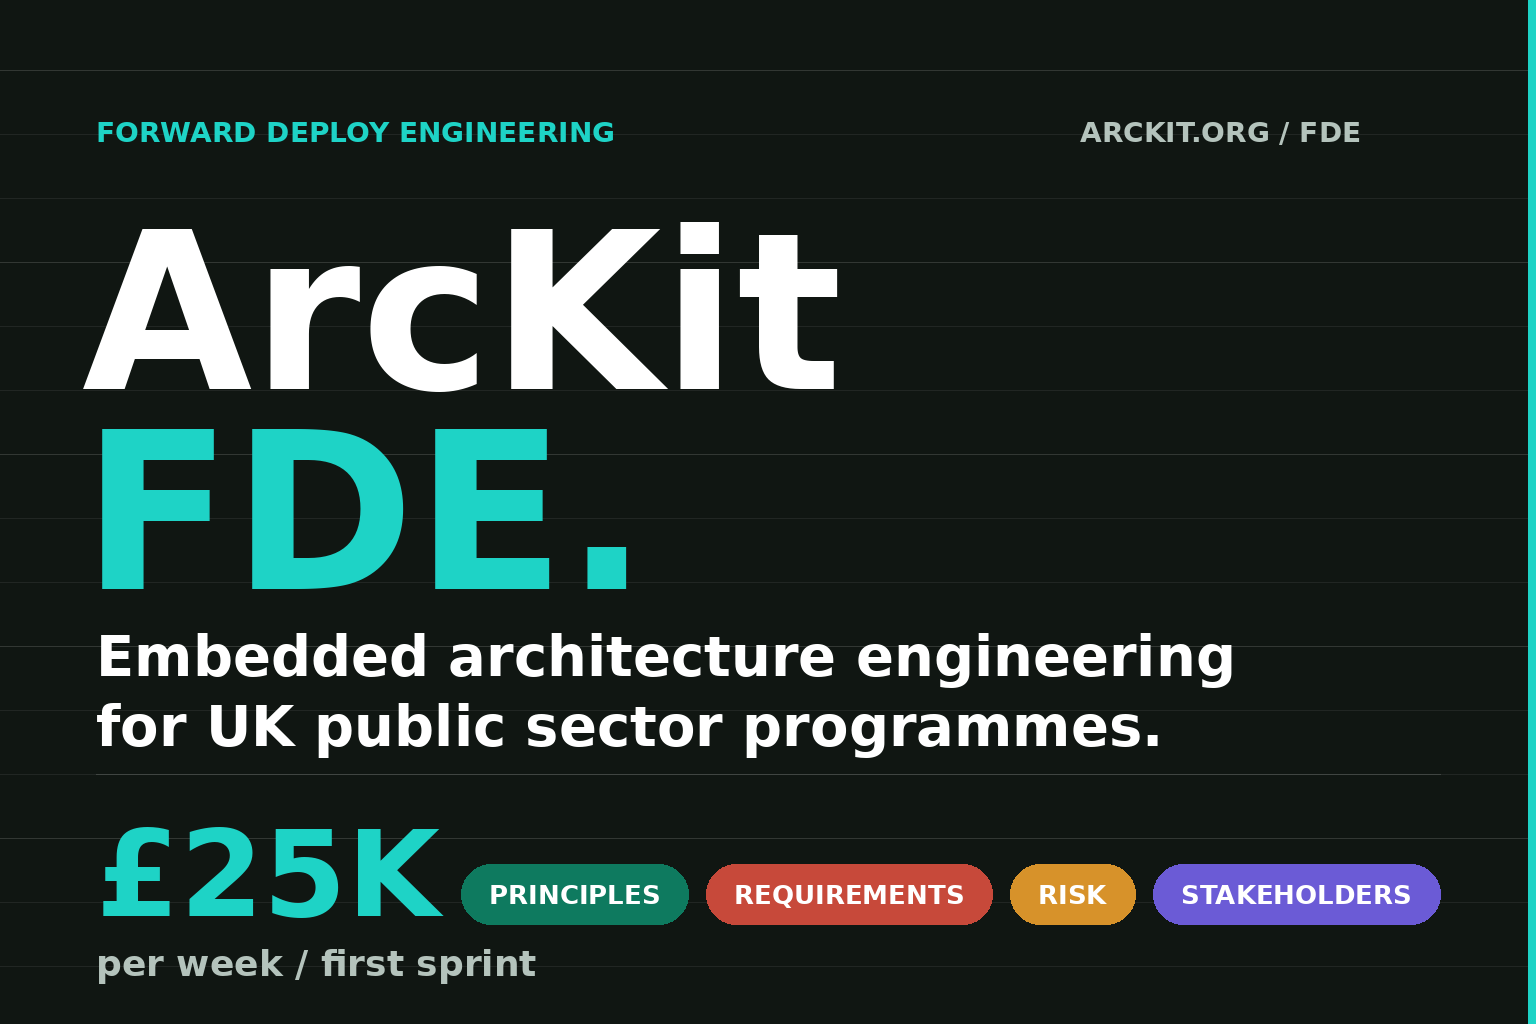
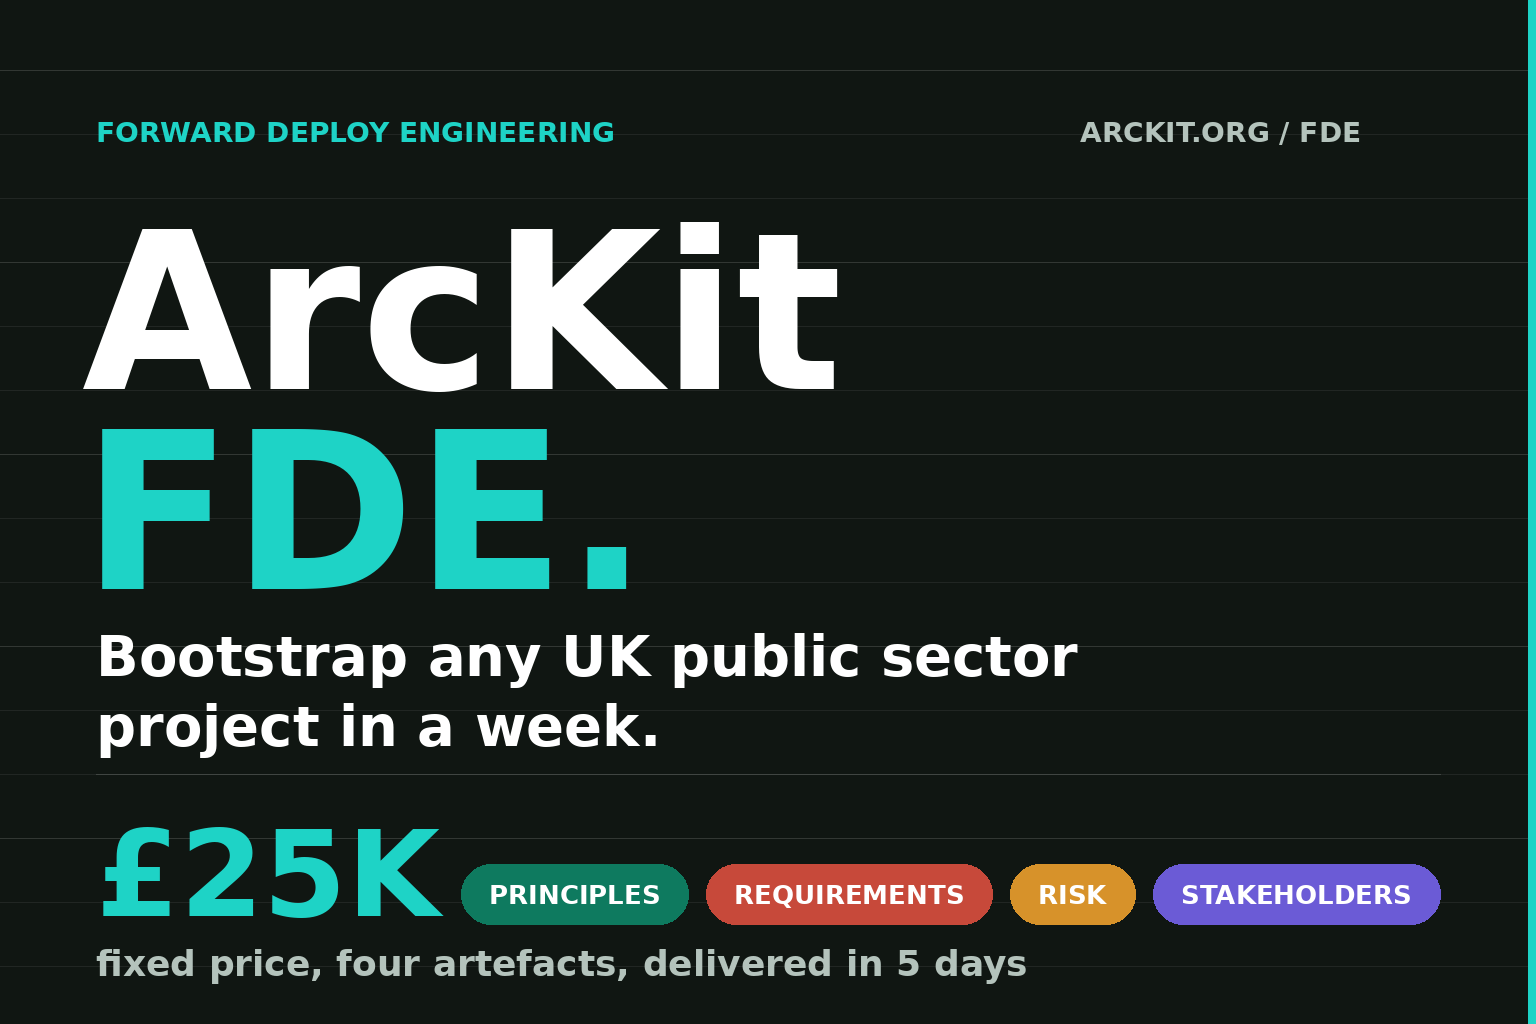
feat(article): flip lead to us, reframe price as fixed bootstrap
- Lead now opens with "we are launching ArcKit FDE" and the offer;
  OpenAI Deployment Company narrative moves to supporting context
- Price reframed: £25K is fixed for the four-artefact pack, delivered
  in 5 days, not a weekly retainer. "First sprint" -> "bootstrap sprint"
  throughout
- Hero PNG regenerated: subtitle reads "Bootstrap any UK public sector
  project in a week" with price label "fixed price, four artefacts,
  delivered in 5 days"
- Card summary on articles.html rewritten to match new lead

Changed region(s): [[0.0625, 0.625, 0.8125, 0.75], [0.0625, 0.9062, 0.6875, 0.9688]]

diff --git a/docs/articles.html b/docs/articles.html
@@ -324,7 +324,7 @@
                             <span class="app-article-card__date">12 May 2026</span>
                         </div>
                         <h2 class="govuk-heading-s app-article-card__title">We are launching ArcKit FDE: embedded architects for UK public sector</h2>
-                        <p class="app-article-card__summary">Real AI, small teams, accelerated programmes. OpenAI named the operating model yesterday when they launched The OpenAI Deployment Company: not consultants, Forward Deployed Engineers. ArcKit FDE is the UK public sector version. One or two senior architects embedded inside the programme, running 117 AI commands on Claude Code and the ArcKit toolkit, compressing the governance, procurement and assurance evidence work that traditionally takes a Big 4 bench three months into focused weekly sprints. First sprint &pound;25K, four artefacts, board-ready by Friday.</p>
+                        <p class="app-article-card__summary">Real AI, small teams, accelerated programmes. Bootstrap any UK public sector project in a week, fixed price &pound;25K for the four-artefact governance pack, then stay embedded as long as the architecture position needs keeping alive. The name borrows from a category OpenAI just made explicit when they launched The OpenAI Deployment Company: not consultants, Forward Deployed Engineers. ArcKit FDE applies the model to UK public sector programmes, with 117 AI commands on Claude Code compressing the governance, procurement and assurance evidence work that traditionally takes a Big 4 bench three months.</p>
                         <a href="article-viewer.html?a=2026-05-12-arckit-fde-launch" class="govuk-link app-article-card__link">Read article &rarr;</a>
                     </div>
                 </article>

diff --git a/docs/articles/2026-05-12-arckit-fde-launch.md b/docs/articles/2026-05-12-arckit-fde-launch.md
@@ -2,11 +2,13 @@
 
 Real AI, small teams, accelerated programmes.
 
-OpenAI launched The OpenAI Deployment Company yesterday with around four billion dollars of initial investment, nineteen capital partners, and a hundred and fifty engineers folded in from the Tomoro acquisition. What matters is not the headline number. It is the name they chose for the people doing the work. Not consultants. Forward Deployed Engineers.
+Today we are launching [ArcKit FDE](https://tractorjuice.github.io/arckit-fde/): real AI in the room, small embedded teams, accelerating UK public sector programmes through the gates that usually stall them. Bootstrap any project in a week, fixed price £25K for the four-artefact governance pack, then stay embedded as long as the architecture position needs keeping alive.
+
+The name borrows from a category that OpenAI just made explicit. Yesterday they launched The OpenAI Deployment Company with around four billion dollars of initial investment, nineteen capital partners, and a hundred and fifty engineers folded in from the Tomoro acquisition. What matters is not the headline number. It is the name they chose for the people doing the work. Not consultants. Forward Deployed Engineers.
 
 That distinction is not cosmetic. Read the [OpenAI page on FDE](https://openai.com/business/the-openai-deployment-company/) and the model is clear. Engineers embedded inside the customer environment, using real AI to build against the actual constraints that live there: security models, permissions, compliance, legacy infrastructure, governance. The constraints are the operating environment, not edge cases.
 
-That is exactly the model UK public sector architecture needs. So today we are launching [ArcKit FDE](https://tractorjuice.github.io/arckit-fde/): real AI in the room, small embedded teams, accelerating UK public sector programmes through the gates that usually stall them.
+That is exactly the model UK public sector architecture needs.
 
 ## What real AI in the room looks like
 
@@ -34,15 +36,15 @@ Public sector programmes do not fail in greenfield workshops. They stall at the 
 
 ArcKit FDE is built to compress those stalls. Three programme stages where the compression shows up:
 
-1. *Before the next gate.* The first sprint produces a governance pack with Green Book, Orange Book, Service Standard and TCoP evidence baked in. Five days, not three months.
+1. *Before the next gate.* The bootstrap sprint produces a governance pack with Green Book, Orange Book, Service Standard and TCoP evidence baked in. Five days, not three months. Fixed price of £25K for the pack itself, not a weekly retainer.
 2. *Before procurement.* Requirements with evidence tags, scored evaluation criteria, build versus buy on the record, G-Cloud and DOS clarifications drafted. Weeks faster than the usual market engagement preparation.
 3. *Before assurance.* Service assessment readiness, Secure by Design, DPIA, ATRS records, AI Playbook compliance. Evidence in the format the gatekeepers accept, ready for the date in the diary.
 
 The point is not that AI does the work for you. The point is that AI plus a senior architect, embedded, can move a programme through a stage in a fraction of the calendar time. Programmes that were not going to make the date can now make the date.
 
-## What the first sprint produces
+## What the bootstrap sprint produces
 
-Five days. Twenty-five thousand pounds. Four artefacts.
+Five days. Twenty-five thousand pounds, fixed price for the pack. Four artefacts.
 
 Principles are decision rules that connect policy intent to delivery trade-offs. Not aspirational posters. Tagged to Green Book point one and Service Standard point one.
 
@@ -56,7 +58,7 @@ By Friday afternoon the programme has a board-readable pack. The follow-on weeks
 
 ## Where to start
 
-If you have a programme that is heading into a board, a procurement, an assurance review or an architecture gate, and you are not yet sure the evidence holds up, the first sprint is what it was built for.
+If you have a programme that is heading into a board, a procurement, an assurance review or an architecture gate, and you are not yet sure the evidence holds up, the bootstrap sprint is what it was built for. £25K, one week, board-ready pack on Friday.
 
 Site: [arckit.org/fde](https://tractorjuice.github.io/arckit-fde/)
 
